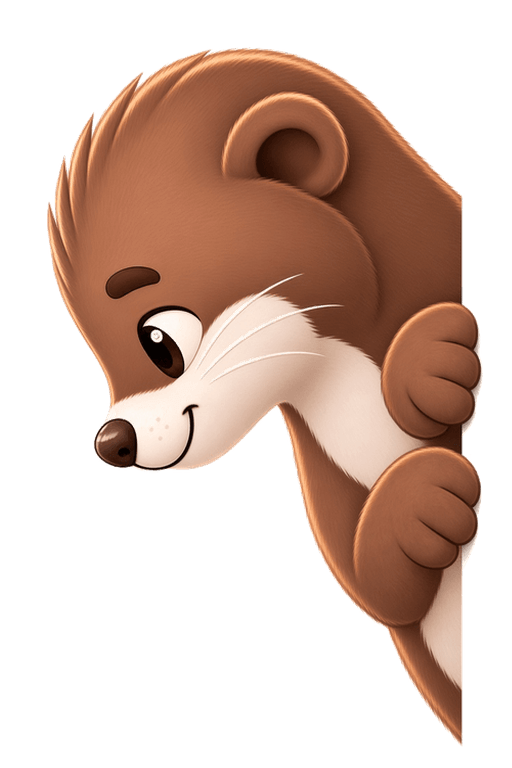
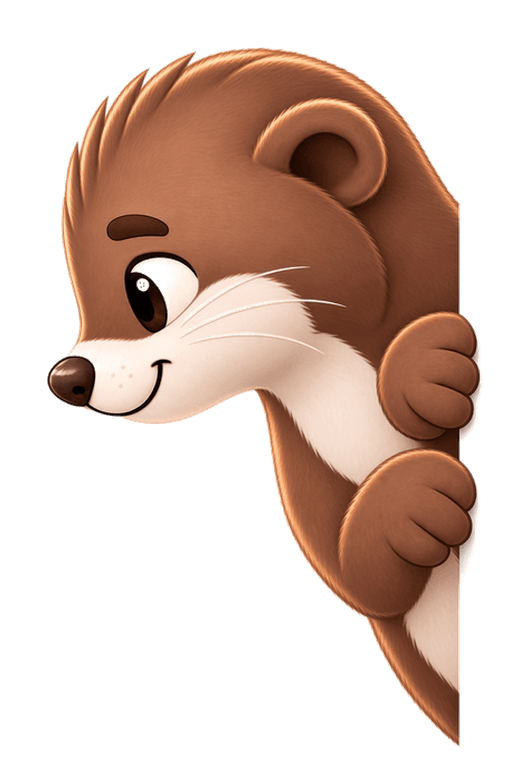
fix(assistant): suavizar el asomo de Numa y usar hamaca en Analíticas de escritorio.
Evita el recuadro negro al cambiar de fotograma y deja la hamaca en PC, como en el resto del panel.

Changed region(s): [[0.0938, 0.0625, 0.9688, 0.9688], [0.7812, 0.7188, 0.8125, 0.75], [0.75, 0.6875, 0.7812, 0.7188]]

diff --git a/scripts/assistant-integration.test.ts b/scripts/assistant-integration.test.ts
@@ -123,13 +123,26 @@ test('la mascota y el BFF quedan desacoplados de ATC', () => {
 	assert.match(mascot, /text\/event-stream/);
 	assert.match(mascot, /prefers-reduced-motion/);
 	assert.ok(existsSync(new URL('../public/assistant/numa-hammock-desktop.png', import.meta.url)));
+	assert.ok(existsSync(new URL('../public/assistant/numa-busy-desktop-attentive.png', import.meta.url)));
+	assert.ok(existsSync(new URL('../public/assistant/numa-busy-desktop-reading.png', import.meta.url)));
+	assert.ok(existsSync(new URL('../public/assistant/numa-busy-desktop-searching.png', import.meta.url)));
+	assert.ok(existsSync(new URL('../public/assistant/numa-complete-desktop.png', import.meta.url)));
 	assert.ok(existsSync(new URL('../public/assistant/numa-analytics-desktop.png', import.meta.url)));
 	assert.ok(existsSync(new URL('../public/assistant/numa-reading-mobile.png', import.meta.url)));
 	assert.ok(existsSync(new URL('../public/assistant/numa-reading-mobile-body.png', import.meta.url)));
 	assert.ok(existsSync(new URL('../public/assistant/numa-tail-layer.png', import.meta.url)));
 	assert.ok(existsSync(new URL('../public/assistant/numa-peek-mobile-vertical-right-look-00.png', import.meta.url)));
-	assert.ok(existsSync(new URL('../public/assistant/numa-peek-mobile-vertical-right-look-24.png', import.meta.url)));
+	assert.ok(existsSync(new URL('../public/assistant/numa-peek-mobile-vertical-right-look-29.png', import.meta.url)));
 	assert.match(mascot, /numa-hammock-desktop\.png/);
+	assert.match(mascot, /numa-busy-desktop-attentive\.png/);
+	assert.match(mascot, /numa-busy-desktop-reading\.png/);
+	assert.match(mascot, /numa-busy-desktop-searching\.png/);
+	assert.match(mascot, /preloadDesktopBusyArt/);
+	assert.match(mascot, /numa-complete-desktop\.png/);
+	assert.match(mascot, /data-assistant-desktop-art/);
+	assert.match(mascot, /syncDesktopArt/);
+	assert.match(mascot, /showDesktopCompletionArt/);
+	assert.match(mascot, /if \(delivered\) this\.showDesktopCompletionArt\(\)/);
 	assert.match(mascot, /numa-analytics-desktop\.png/);
 	assert.match(mascot, /numa-reading-mobile-body\.png/);
 	assert.match(mascot, /numa-tail-layer\.png/);
@@ -144,6 +157,7 @@ test('la mascota y el BFF quedan desacoplados de ATC', () => {
 	assert.match(mascot, /inset: auto 0 0/);
 	assert.match(mascot, /grid-template-rows: auto auto minmax\(0, 1fr\) auto auto auto auto/);
 	assert.match(mascot, /data-assistant-open/);
+	assert.match(mascot, /@media \(max-width: 1023px\)[\s\S]*?\.assistant-mascot__hint \{ display: none; \}/);
 	assert.doesNotMatch(mascot, /assistant-mascot__panel \{ position: fixed; top: auto; right:/);
 	assert.doesNotMatch(mascot, /data-assistant-clear[^>]*>[\s\S]*?>refresh</);
 	assert.match(mascot, /data-assistant-clarification/);
@@ -167,9 +181,16 @@ test('la mascota y el BFF quedan desacoplados de ATC', () => {
 	assert.doesNotMatch(mascot, /assistant-mascot__hook/);
 	assert.doesNotMatch(mascot, /numa-tail-sway/);
 	assert.doesNotMatch(mascot, /numa-reading-bob/);
-	assert.match(mascot, /length: 25/);
+	assert.match(mascot, /peekFrameCount = 30/);
+	assert.match(mascot, /length: peekFrameCount/);
 	assert.match(mascot, /numa-peek-mobile-vertical-right-look-\$\{String\(index\)\.padStart\(2, '0'\)\}\.png/);
 	assert.match(mascot, /data-peek-rest/);
+	assert.match(mascot, /frames\[index\]\.style\.opacity = '1'/);
+	assert.doesNotMatch(mascot, /style\.visibility/);
+	assert.match(mascot, /nearestReadyFrame/);
+	assert.match(mascot, /frame\.dataset\.peekError = ''/);
+	assert.match(mascot, /img\[data-peek-error\] \{ display: none; \}/);
+	assert.match(mascot, /\.assistant-mascot__peek img \{\n\t\tposition: absolute;\n\t\tinset: 0;\n\t\topacity: 0;\n\t\tpointer-events: none;/);
 	assert.match(mascot, /data-assistant-mobile-peek/);
 	assert.match(mascot, /--numa-look/);
 	assert.match(mascot, /mobile-bottom-nav-height/);
@@ -182,7 +203,8 @@ test('la mascota y el BFF quedan desacoplados de ATC', () => {
 	assert.match(mascot, /canvas\.width \* 0\.375/);
 	assert.doesNotMatch(mascot, /from ['"]gsap['"]|from ['"]motion['"]/);
 	assert.match(layout, /mobilePeek=\{!isDashboardRoute\}/);
-	assert.match(layout, /desktopArt=\{isAnalyticsRoute \? 'analytics' : 'hammock'\}/);
+	assert.doesNotMatch(layout, /desktopArt=\{isAnalyticsRoute/);
+	assert.doesNotMatch(layout, /isAnalyticsRoute/);
 	assert.match(dashboard, /data-assistant-confirmation-card/);
 	assert.match(analytics, /data-assistant-analytics-chart/);
 });
